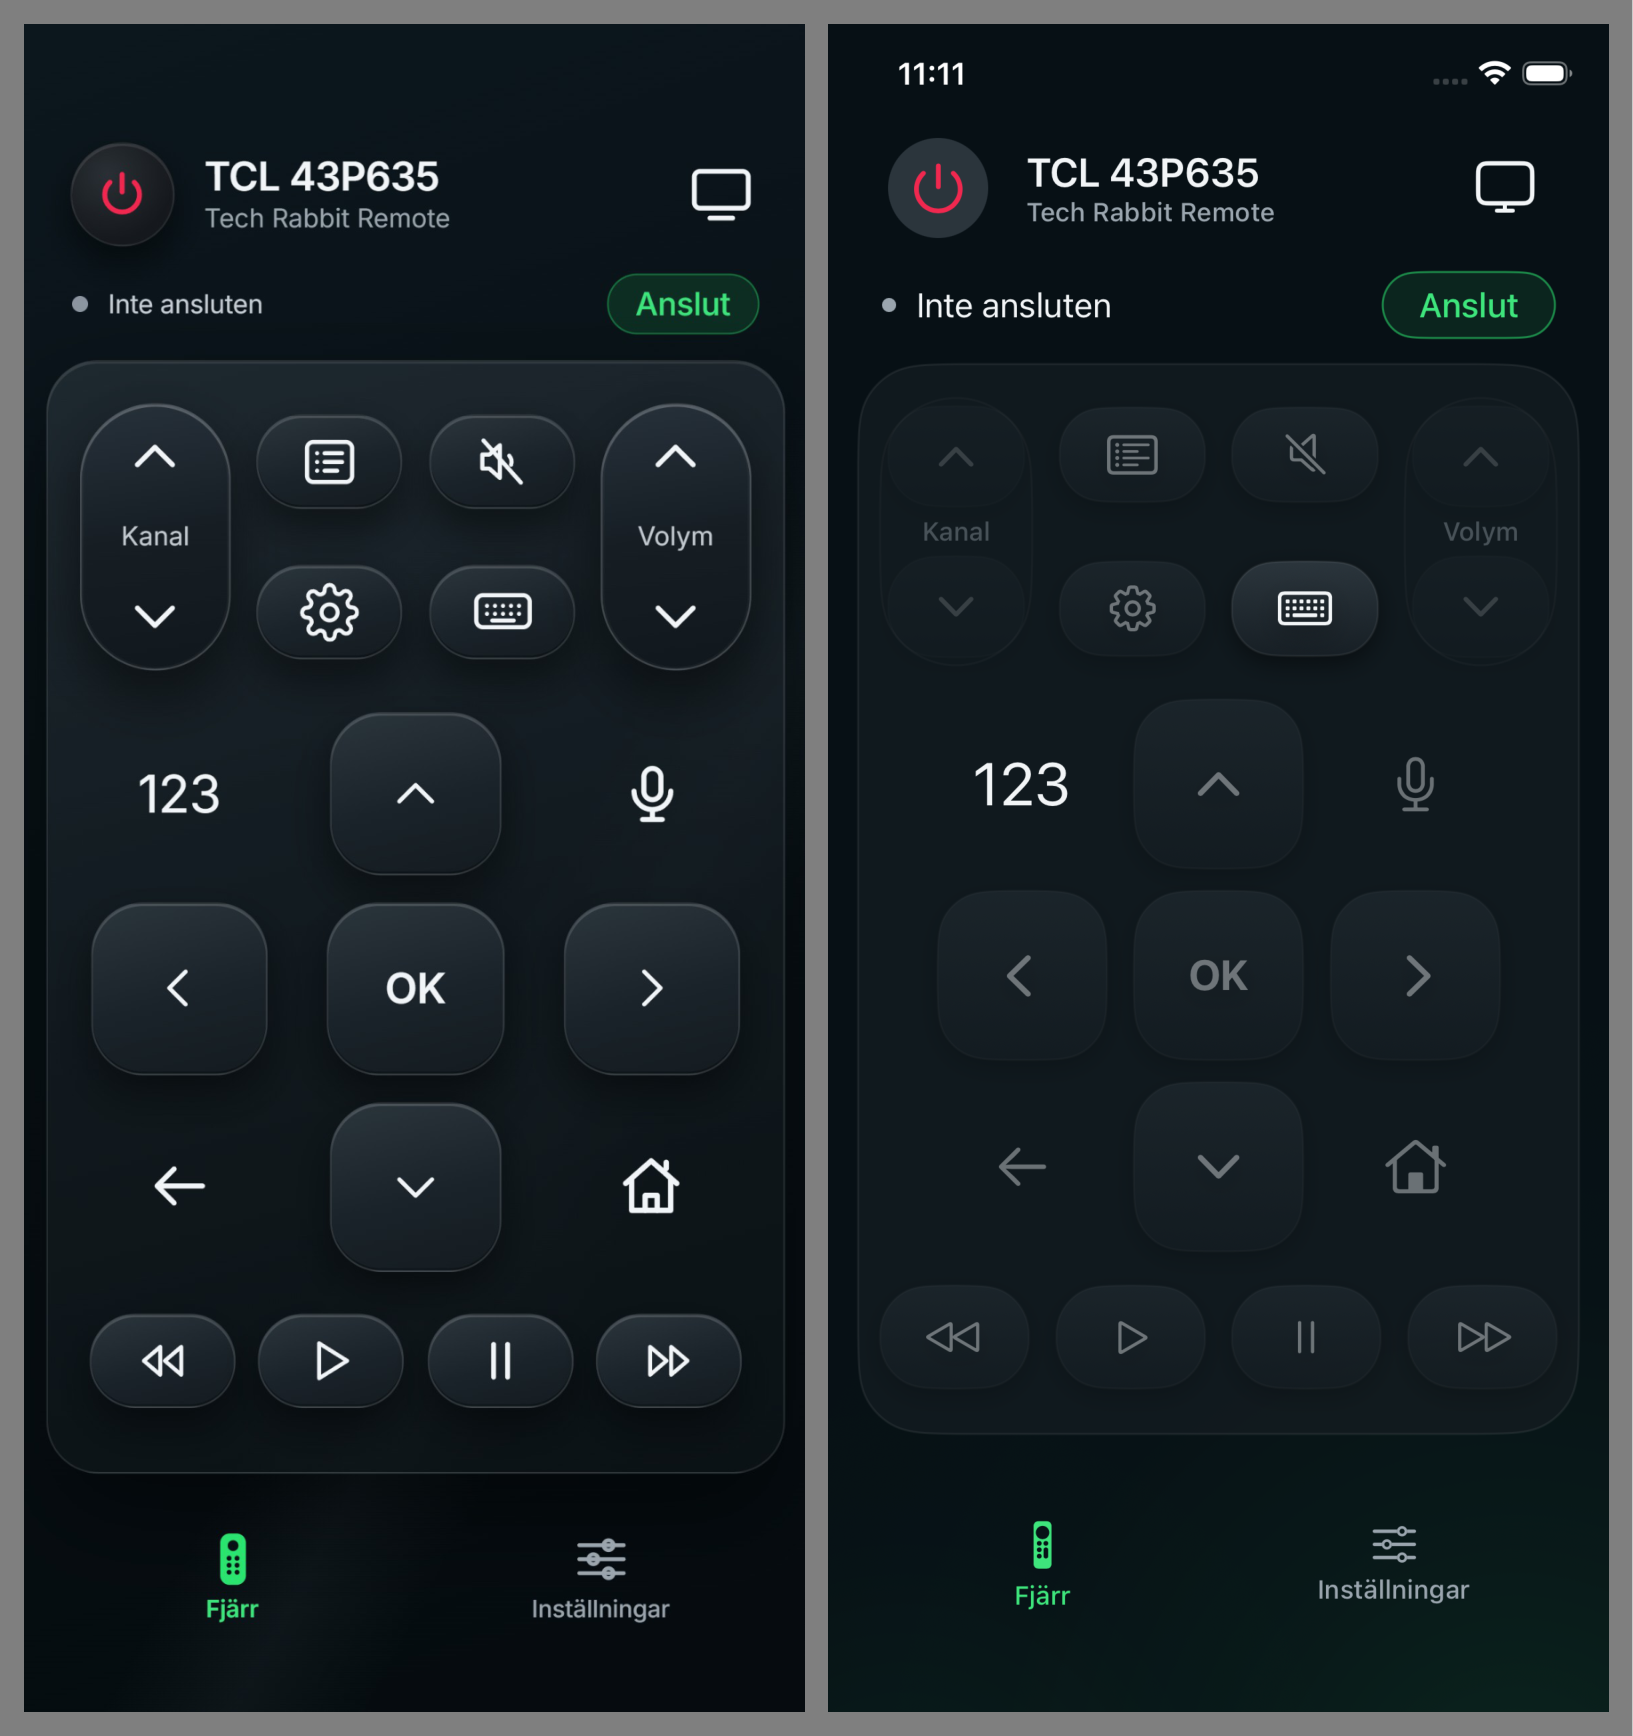
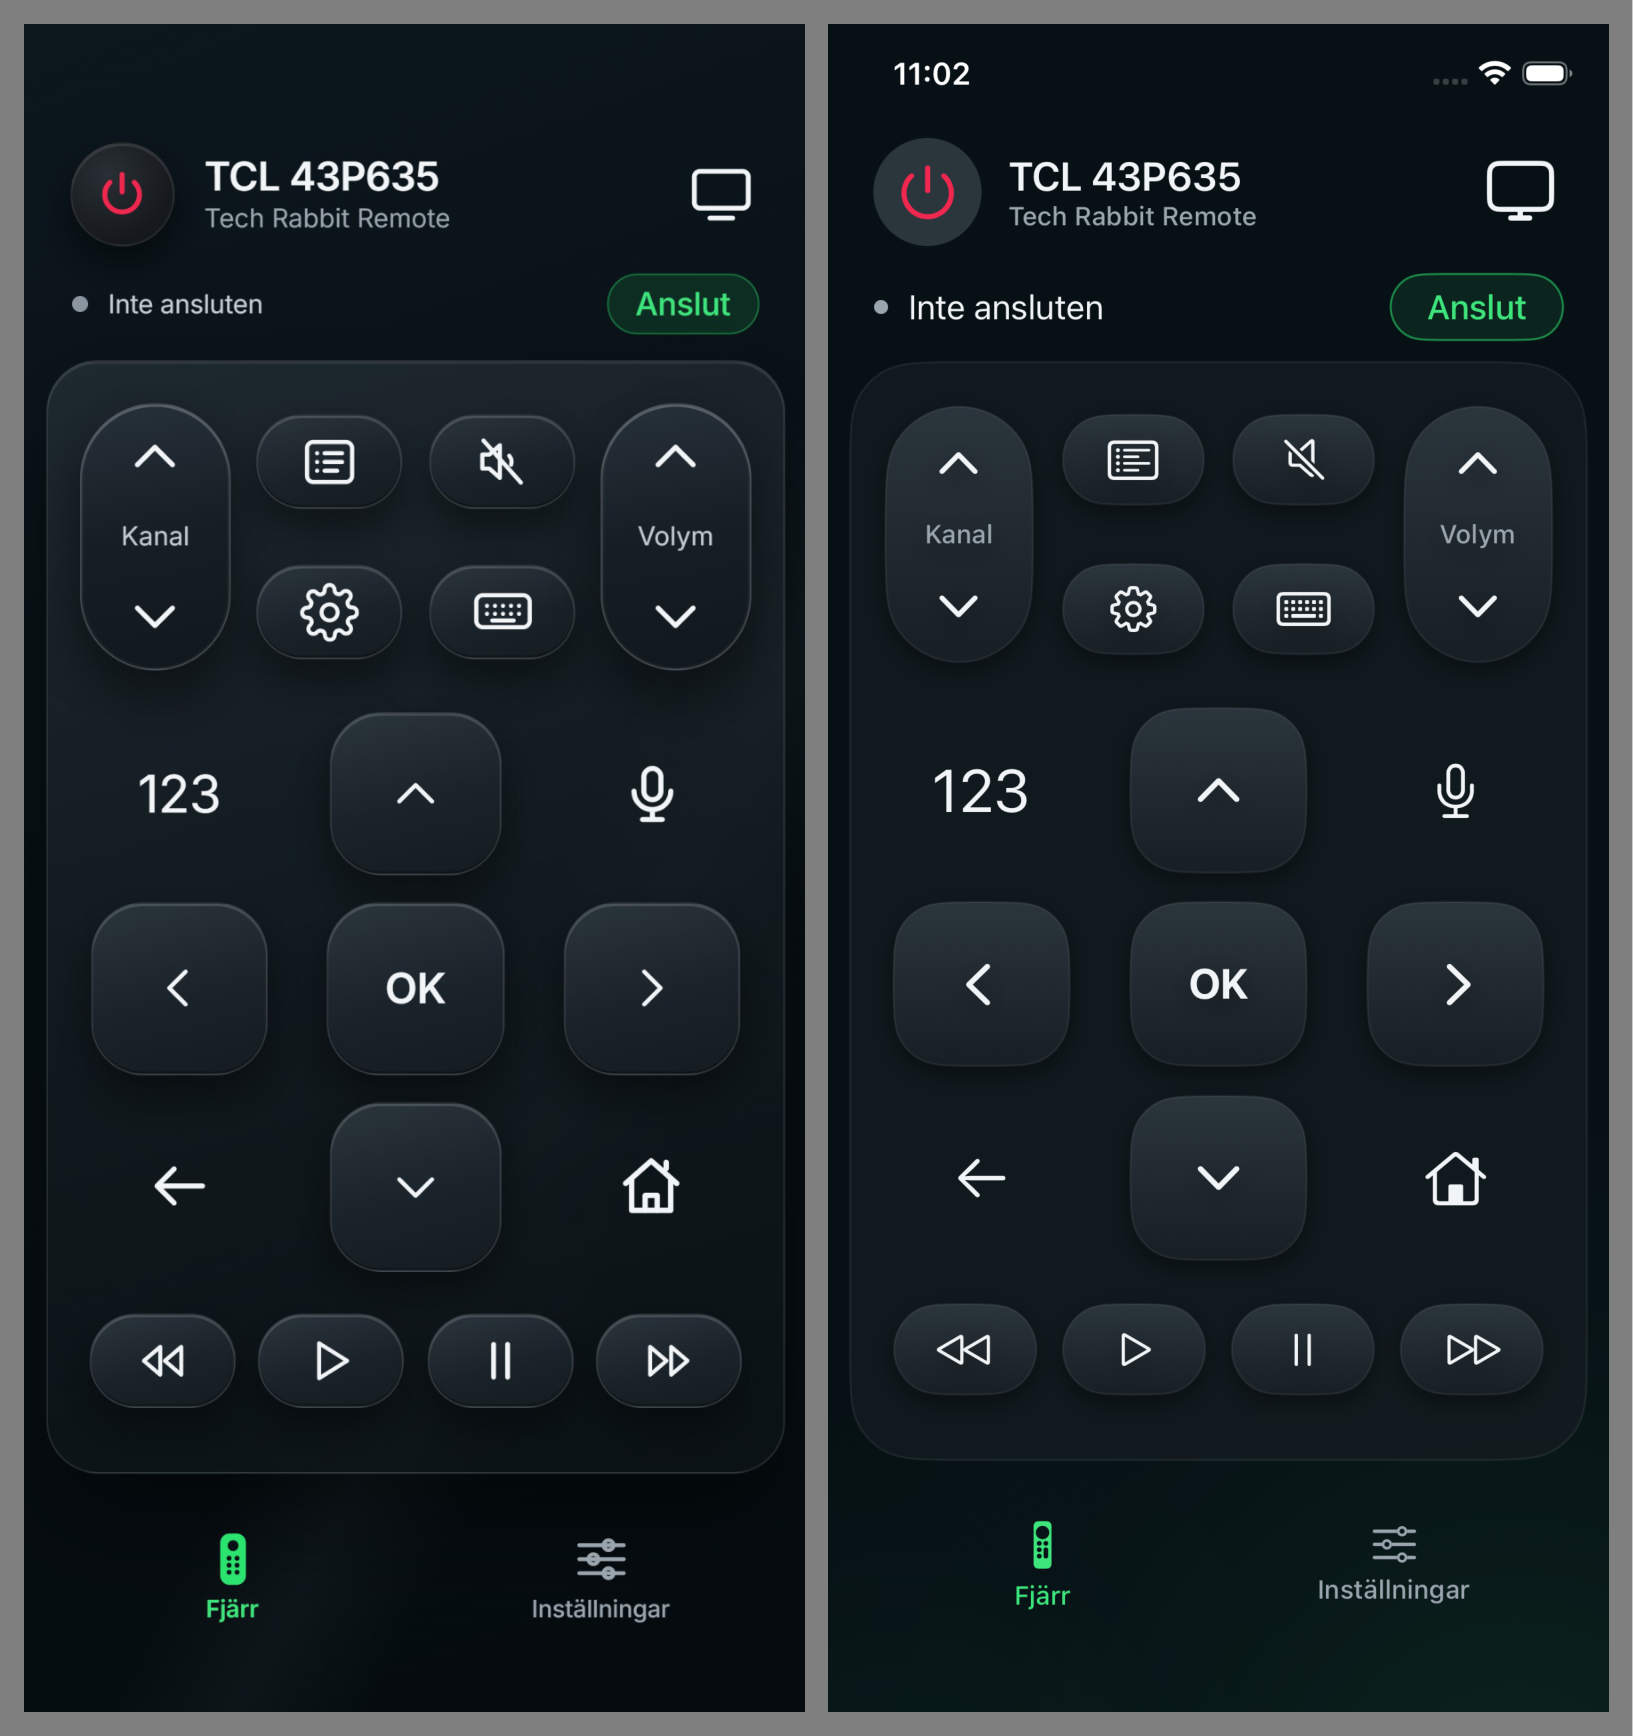
Paint the background the way the pages measure
Det grona skenet finns bara i sid 1 och sid 3. Sid 2 och sid 4 har ingen
gron ton alls, bara en lodrat toning som morknar nedat. Skenets styrka i
ljust lage ar provad mot uppmatta bildpunkter.

diff --git a/App/UI/RemoteTokens.swift b/App/UI/RemoteTokens.swift
@@ -363,36 +363,41 @@ enum TRHaptics {
 
 // MARK: - Bakgrund
 
-/// Jämn bakgrundsfärg med ett grönt sken i nederkanten, som i facit.
-/// Ingen swoosh.
+/// Bakgrunden, uppmätt i facit. Ljust läge har en jämn yta med ett grönt
+/// sken i nedre högra hörnet och ett svagare i det vänstra. Mörkt läge har
+/// inget sken alls, bara en lodrät toning som mörknar nedåt (sid 2 och 4).
 struct RemoteBackground: View {
     @Environment(\.colorScheme) private var scheme
 
     var body: some View {
-        let colors = TR.Colors.of(scheme)
         GeometryReader { geometry in
             let h = geometry.size.height
-            ZStack {
-                colors.background
-                // Skenet ligger i nederkanten och klingar av snabbt, som i
-                // facit: tydligt i nedre hornen, borta vid panelen.
-                glow(colors, at: UnitPoint(x: 0.88, y: 1.06), radius: h * 0.52, strength: 1)
-                glow(colors, at: UnitPoint(x: 0.10, y: 1.08), radius: h * 0.30, strength: 0.7)
+            if scheme == .dark {
+                LinearGradient(
+                    colors: [Color(hex: 0x0C171D), Color(hex: 0x050A0E)],
+                    startPoint: .top, endPoint: .bottom
+                )
+            } else {
+                ZStack {
+                    TR.Colors.light.background
+                    glow(center: UnitPoint(x: 1.0, y: 1.04), radius: h * 0.535,
+                         stops: [(0, 0.26), (0.12, 0.23), (0.30, 0.105), (0.55, 0.06), (1, 0)])
+                    glow(center: UnitPoint(x: 0.08, y: 1.05), radius: h * 0.28,
+                         stops: [(0, 0.07), (0.35, 0.04), (1, 0)])
+                }
             }
         }
         .ignoresSafeArea()
         .allowsHitTesting(false)
     }
 
-    private func glow(_ colors: TR.Colors, at center: UnitPoint,
-                      radius: CGFloat, strength: Double) -> some View {
-        RadialGradient(
-            gradient: Gradient(stops: [
-                .init(color: colors.glow.opacity(strength), location: 0),
-                .init(color: colors.glow.opacity(strength * 0.45), location: 0.30),
-                .init(color: colors.glow.opacity(strength * 0.10), location: 0.60),
-                .init(color: colors.glow.opacity(0), location: 1)
-            ]),
+    private func glow(center: UnitPoint, radius: CGFloat,
+                      stops: [(CGFloat, Double)]) -> some View {
+        let accent = TR.Colors.light.accent
+        return RadialGradient(
+            gradient: Gradient(stops: stops.map {
+                .init(color: accent.opacity($0.1), location: $0.0)
+            }),
             center: center, startRadius: 0, endRadius: radius
         )
     }
